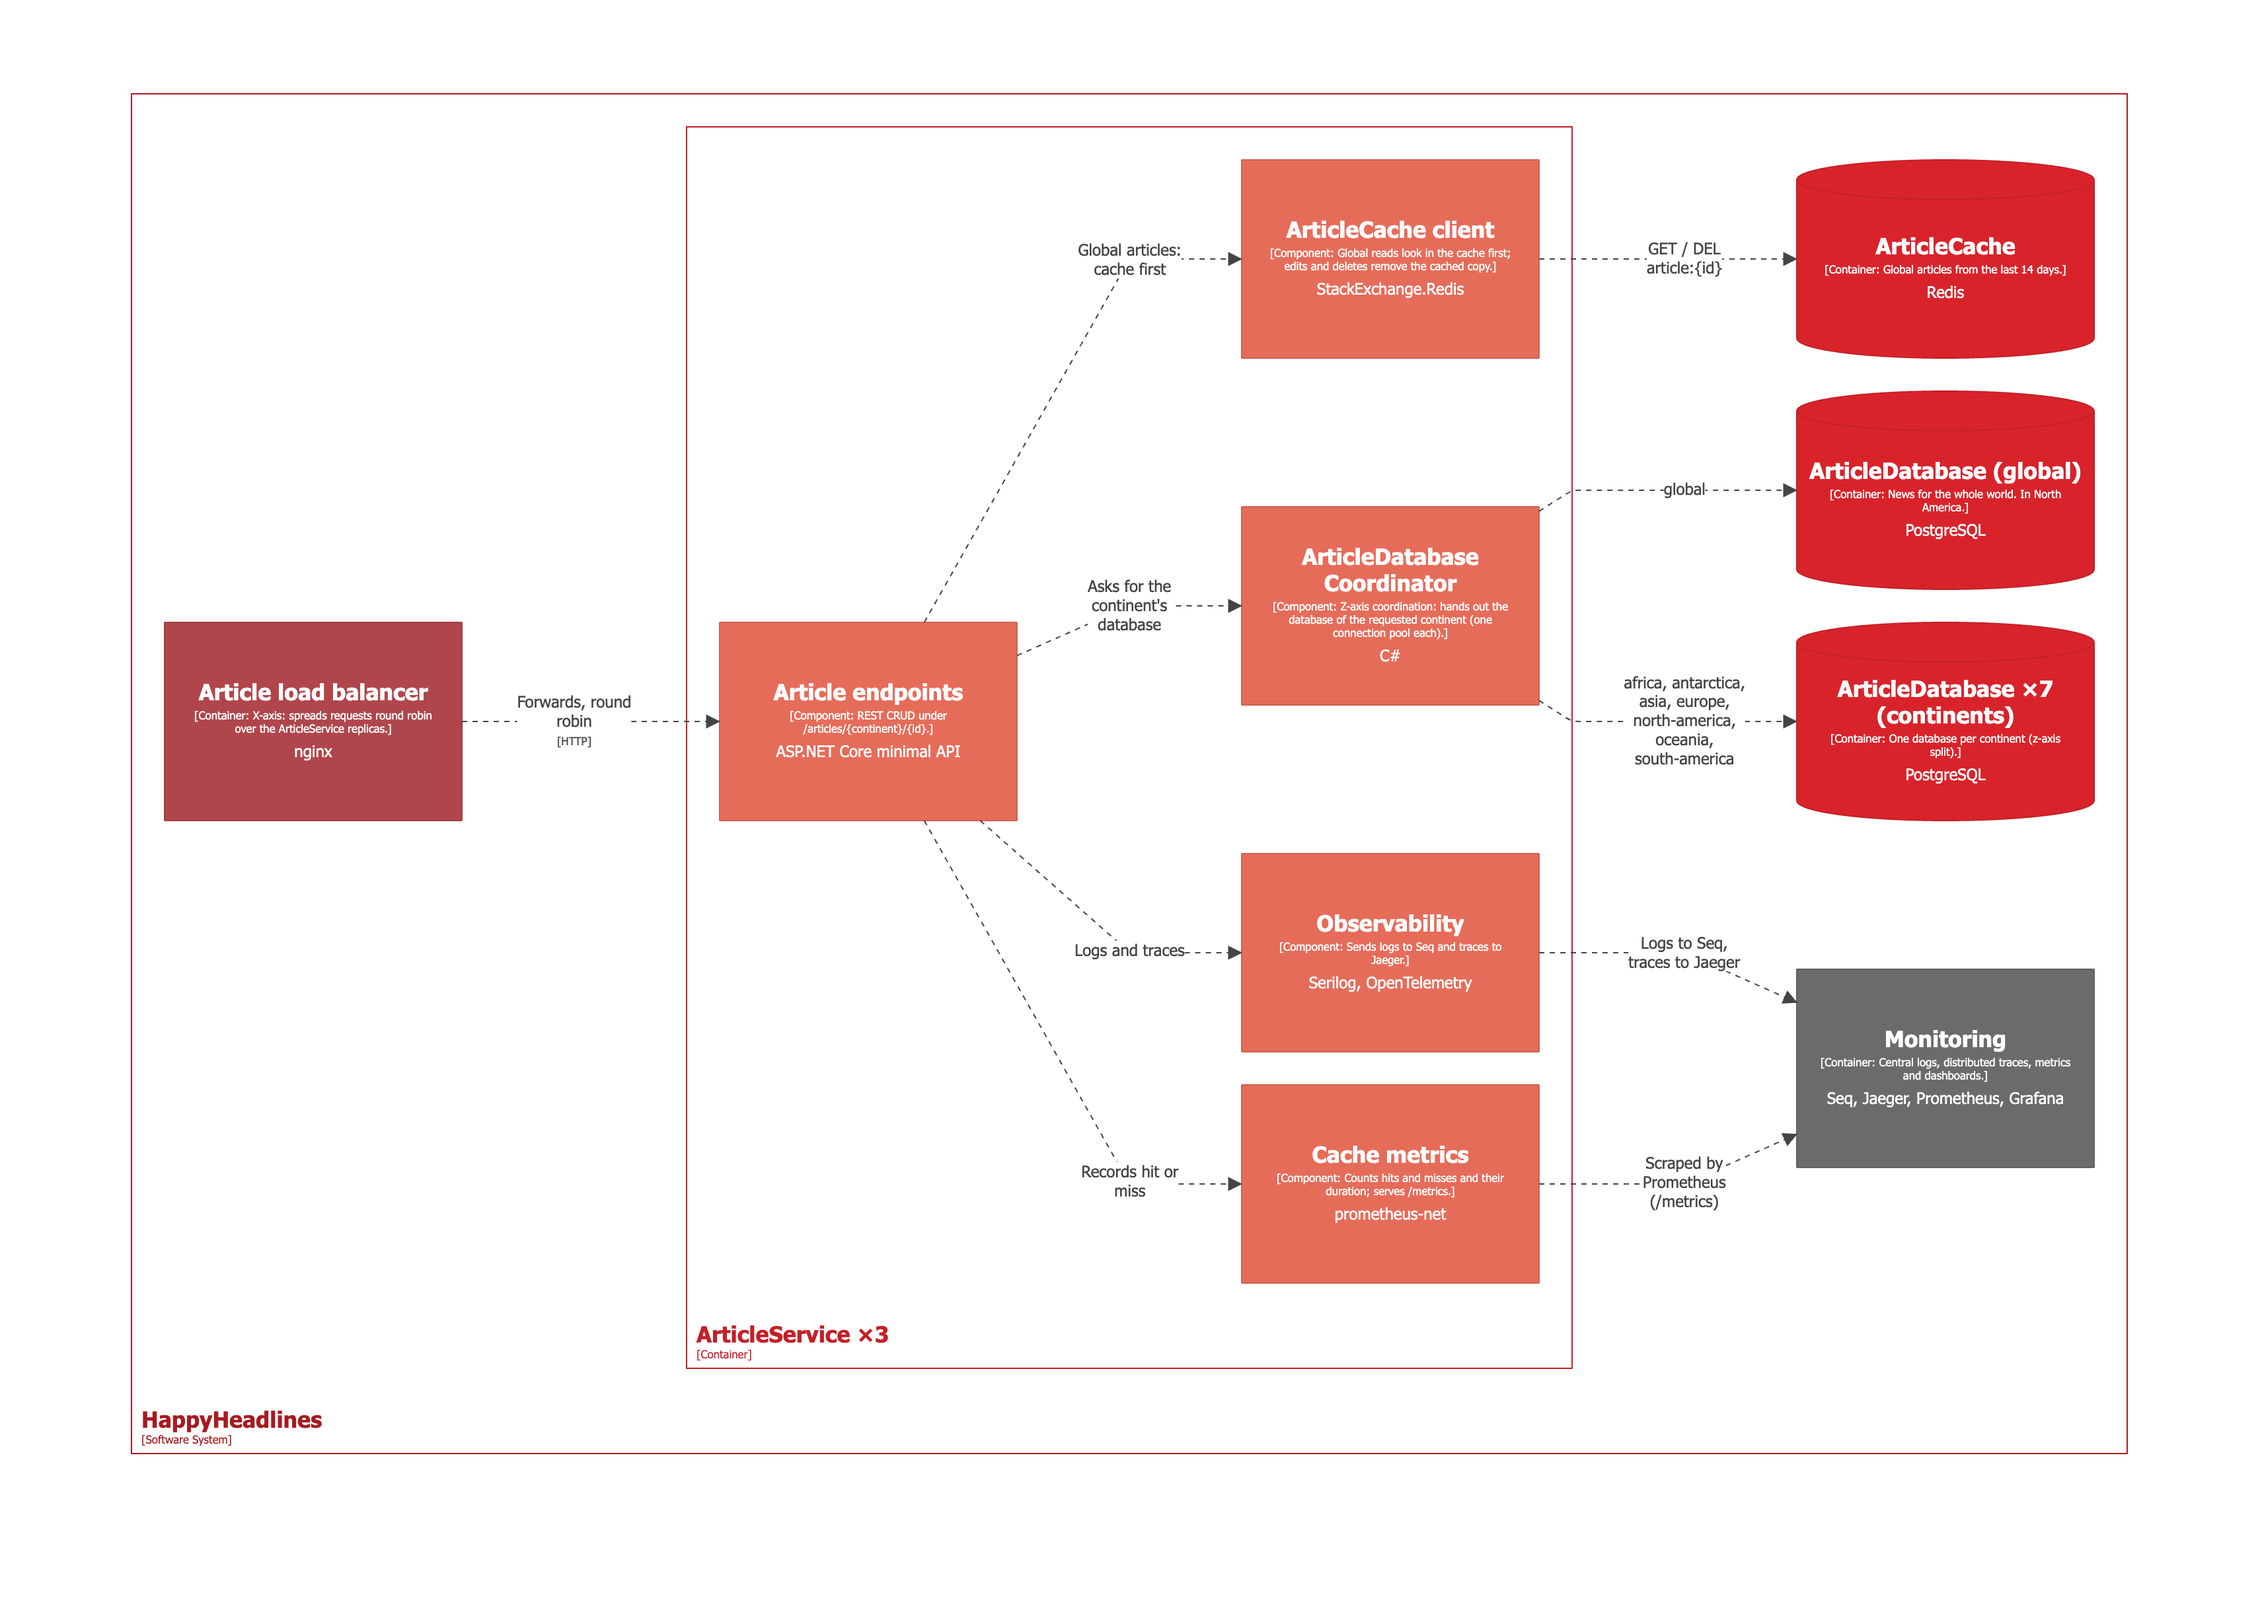
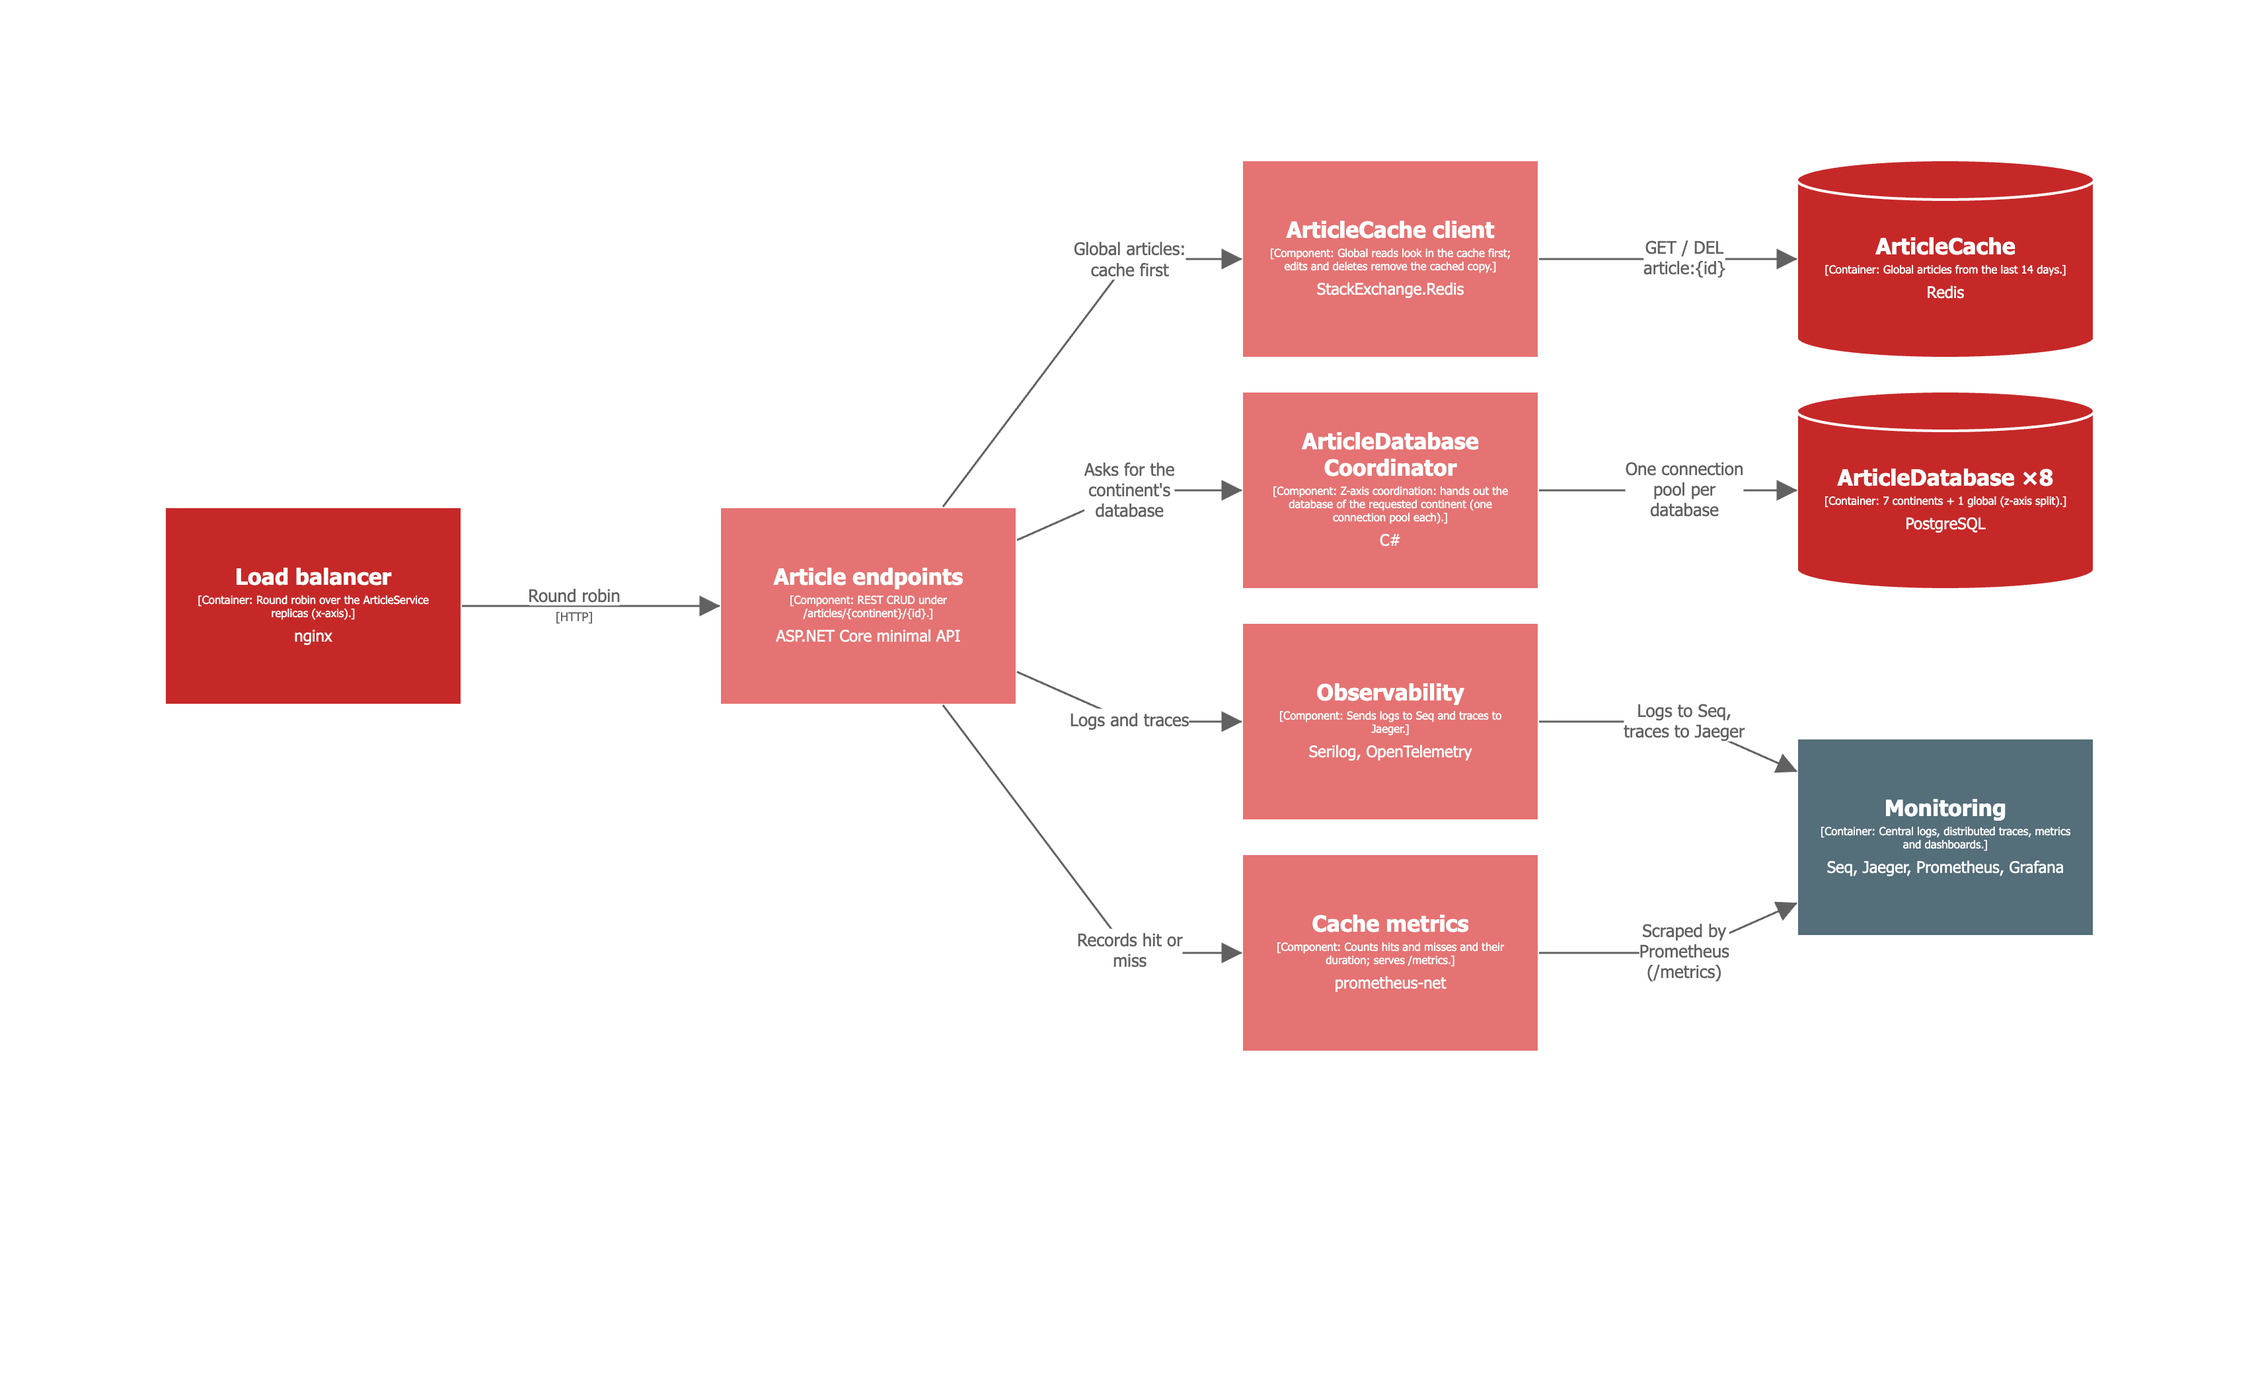
Docs: simpler, swimlane-coloured C4 diagrams
- Level 2 is laid out top to bottom, with one coloured group per swimlane (Articles,
  Comments, Profanity, Subscribers, Newsletter) and the not-built publishing flow in a grey
  group.
- The eight ArticleDatabases are one box (7 continents + global), arrow labels are short,
  and the technology tags are gone from the level 2 arrows.
- Level 3 uses the same ArticleDatabase box and colours.

diff --git a/README.md b/README.md
@@ -33,7 +33,7 @@ The model is [`docs/workspace.dsl`](docs/workspace.dsl) (Structurizr). To browse
 docker run --rm -p 8090:8080 -v ./docs:/usr/local/structurizr structurizr/structurizr local   # http://localhost:8090
 ```
 
-Dashed containers are part of the design but not built here: Webapp, Website, DraftService/DraftDatabase, PublisherService and ArticleQueue. The reader simulator stands in for the Website.
+Each colour is a swimlane: its own services and its own data, nothing shared. The grey group (Webapp, DraftService/DraftDatabase, PublisherService, ArticleQueue) is part of the design but not built here, and the reader simulator stands in for the Website.
 
 ## How the requirements are covered
 
